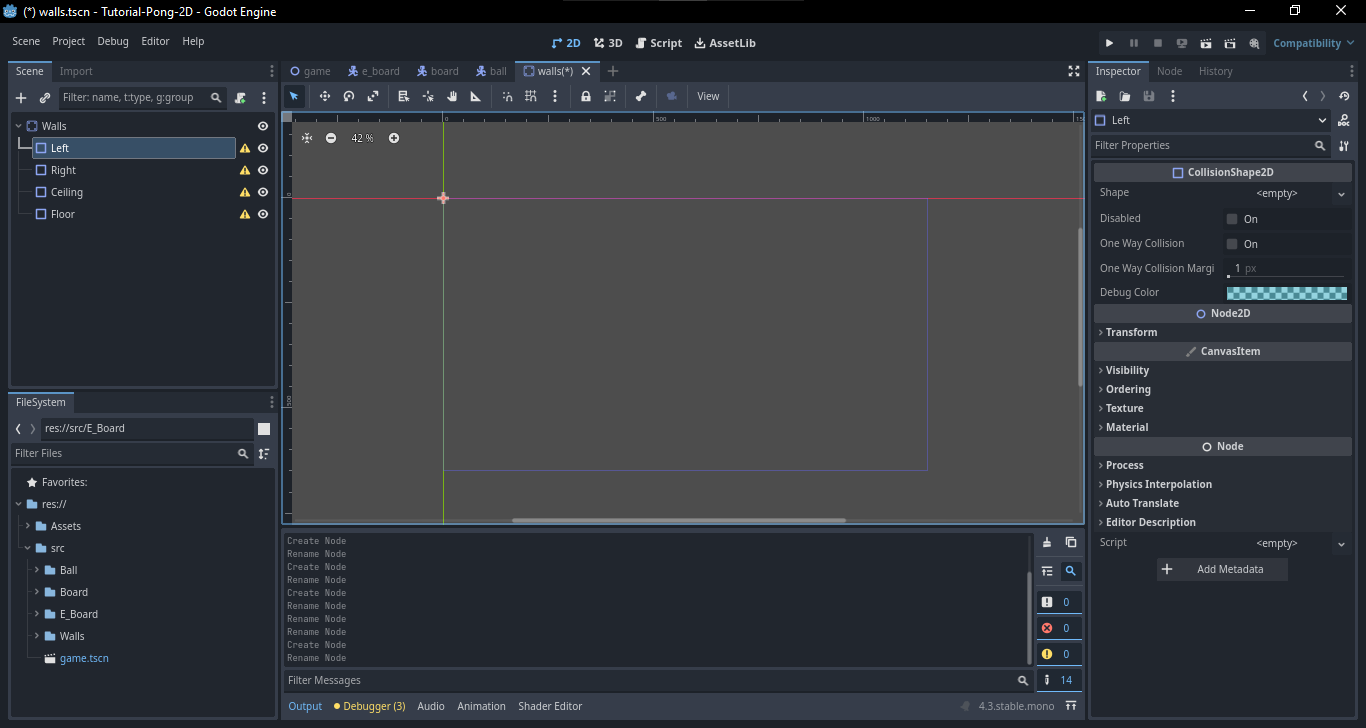
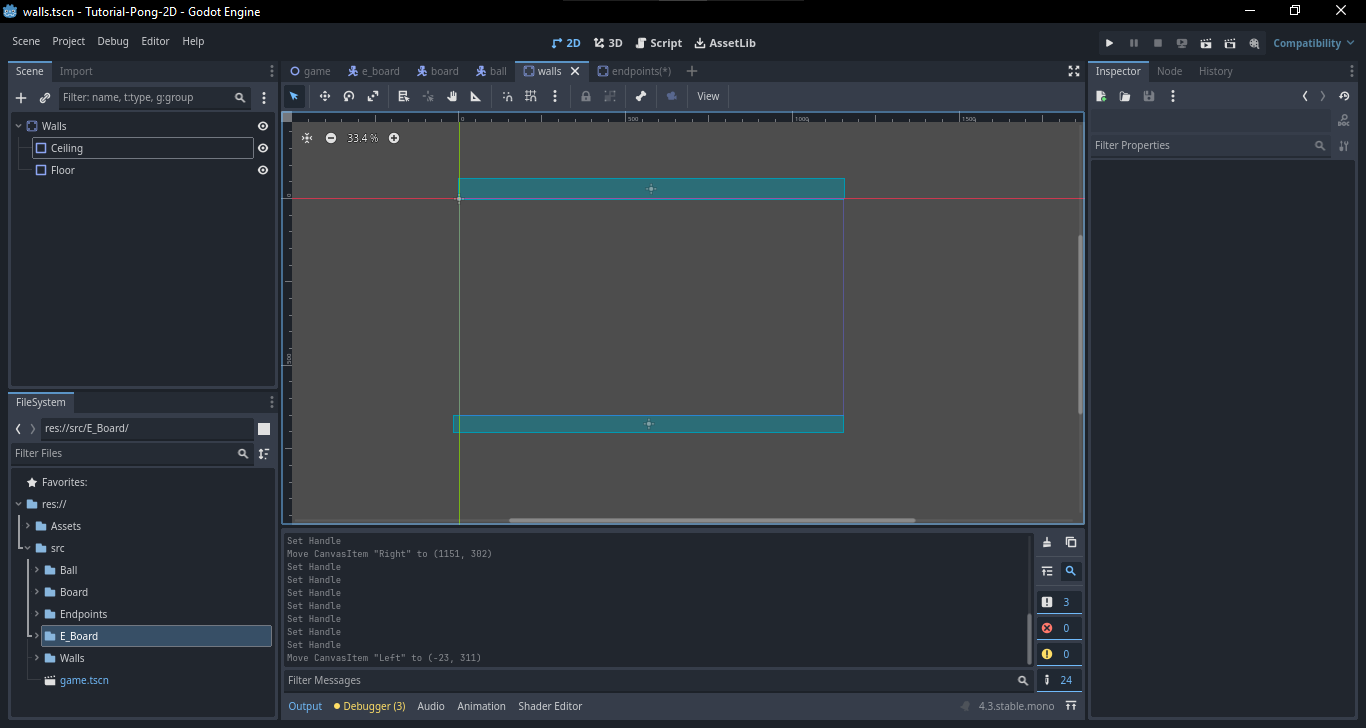
Add New Function Called Reset, Which Reset The Ball To The Initial State

diff --git a/godot/pong-2D/scene.md b/godot/pong-2D/scene.md
@@ -3,7 +3,7 @@ order: 4
 title: Scene Handling
 ---
 
-> [!NOTE]  
+> [!WARNING]  
 > The Assets should be downloaded before following this steps.
 
 <!-- use screenshots as much as possible -->
@@ -139,16 +139,27 @@ func _physics_process(delta: float) -> void:
 ```GDScript
 extends CharacterBody2D
 
+
 const SPEED = 15.0
+var initial_position: Vector2
 
 func _ready() -> void:
 	velocity = Vector2(-SPEED, 0)
+	initial_position = position
 
 func _physics_process(delta: float) -> void:
 	var col: KinematicCollision2D = move_and_collide(velocity)
 	if col:
-		var normal := col.get_normal()
-		velocity = velocity.bounce(normal)
+		if col.get_collider().is_in_group("Walls"):  
+			reset()
+		else:
+			var normal := col.get_normal()
+			velocity = velocity.bounce(normal)
+	
+func reset() -> void:
+	position = initial_position
+	velocity = Vector2(-SPEED, 0)
+
 ```
 
 35. After adding the script link the ball node the game node same as how the board's were linked.
@@ -159,24 +170,24 @@ func _physics_process(delta: float) -> void:
 37. Now try run the Game again.
 38. Just for clarification, we never add any wall in the game, so the ball might go into oblivion.
 39. For now, the game doesn't have an end, as it wont show any scores.
-<!--40. Now we will add -->
 
-40. For the walls, we will be using StaticBody2D so as same as how the board's and ball was insert in the same way we add the StaticBody2D.
+40. For the  Ceiling and Floor, we will be using StaticBody2D so as same as how the board's and ball was insert in the same way we add the StaticBody2D.
 41. As save it in another folder called Walls in the src.
 
 ![Walls Node](./assets/scene/41.png)
 
 42. For the CollisionShape2D node use RectangleShape2D for the Walls.  
+43. For the Sides we will create a new scene with StaticBody2D called Endpoints with CollisionShape2D as the sides and save it in a folder called Endpoints.
 
-![Walls Node](./assets/scene/42.png)
+![Endpoints Node](./assets/scene/43.png)
 
-43. Now link the Wall node with the game node.
-44. Finally it will look like this.
+44. Now link the Wall node with the game node.
+45. And Group the Endpoint and call it Walls, this is so that the balls reset when they hit them.
 
-![Complete Scence](./assets/scene/44.png)
+![Walls Group](./assets/scene/45.png)
 
-45. Now Try run the game and enjoy the game without an end. :smile:
+46. Now Try run the game and enjoy the game without an end. :smile:
 
-46. We if face any issues like the board moving with ball just remember to change the motion mode property of CharacterBody2D from Grounded to Floating for both boards.
+47. We if face any issues like the board moving with ball just remember to change the motion mode property of CharacterBody2D from Grounded to Floating for both boards.
 
-![Issues](./assets/scene/46.png)
+![Issues](./assets/scene/47.png)
